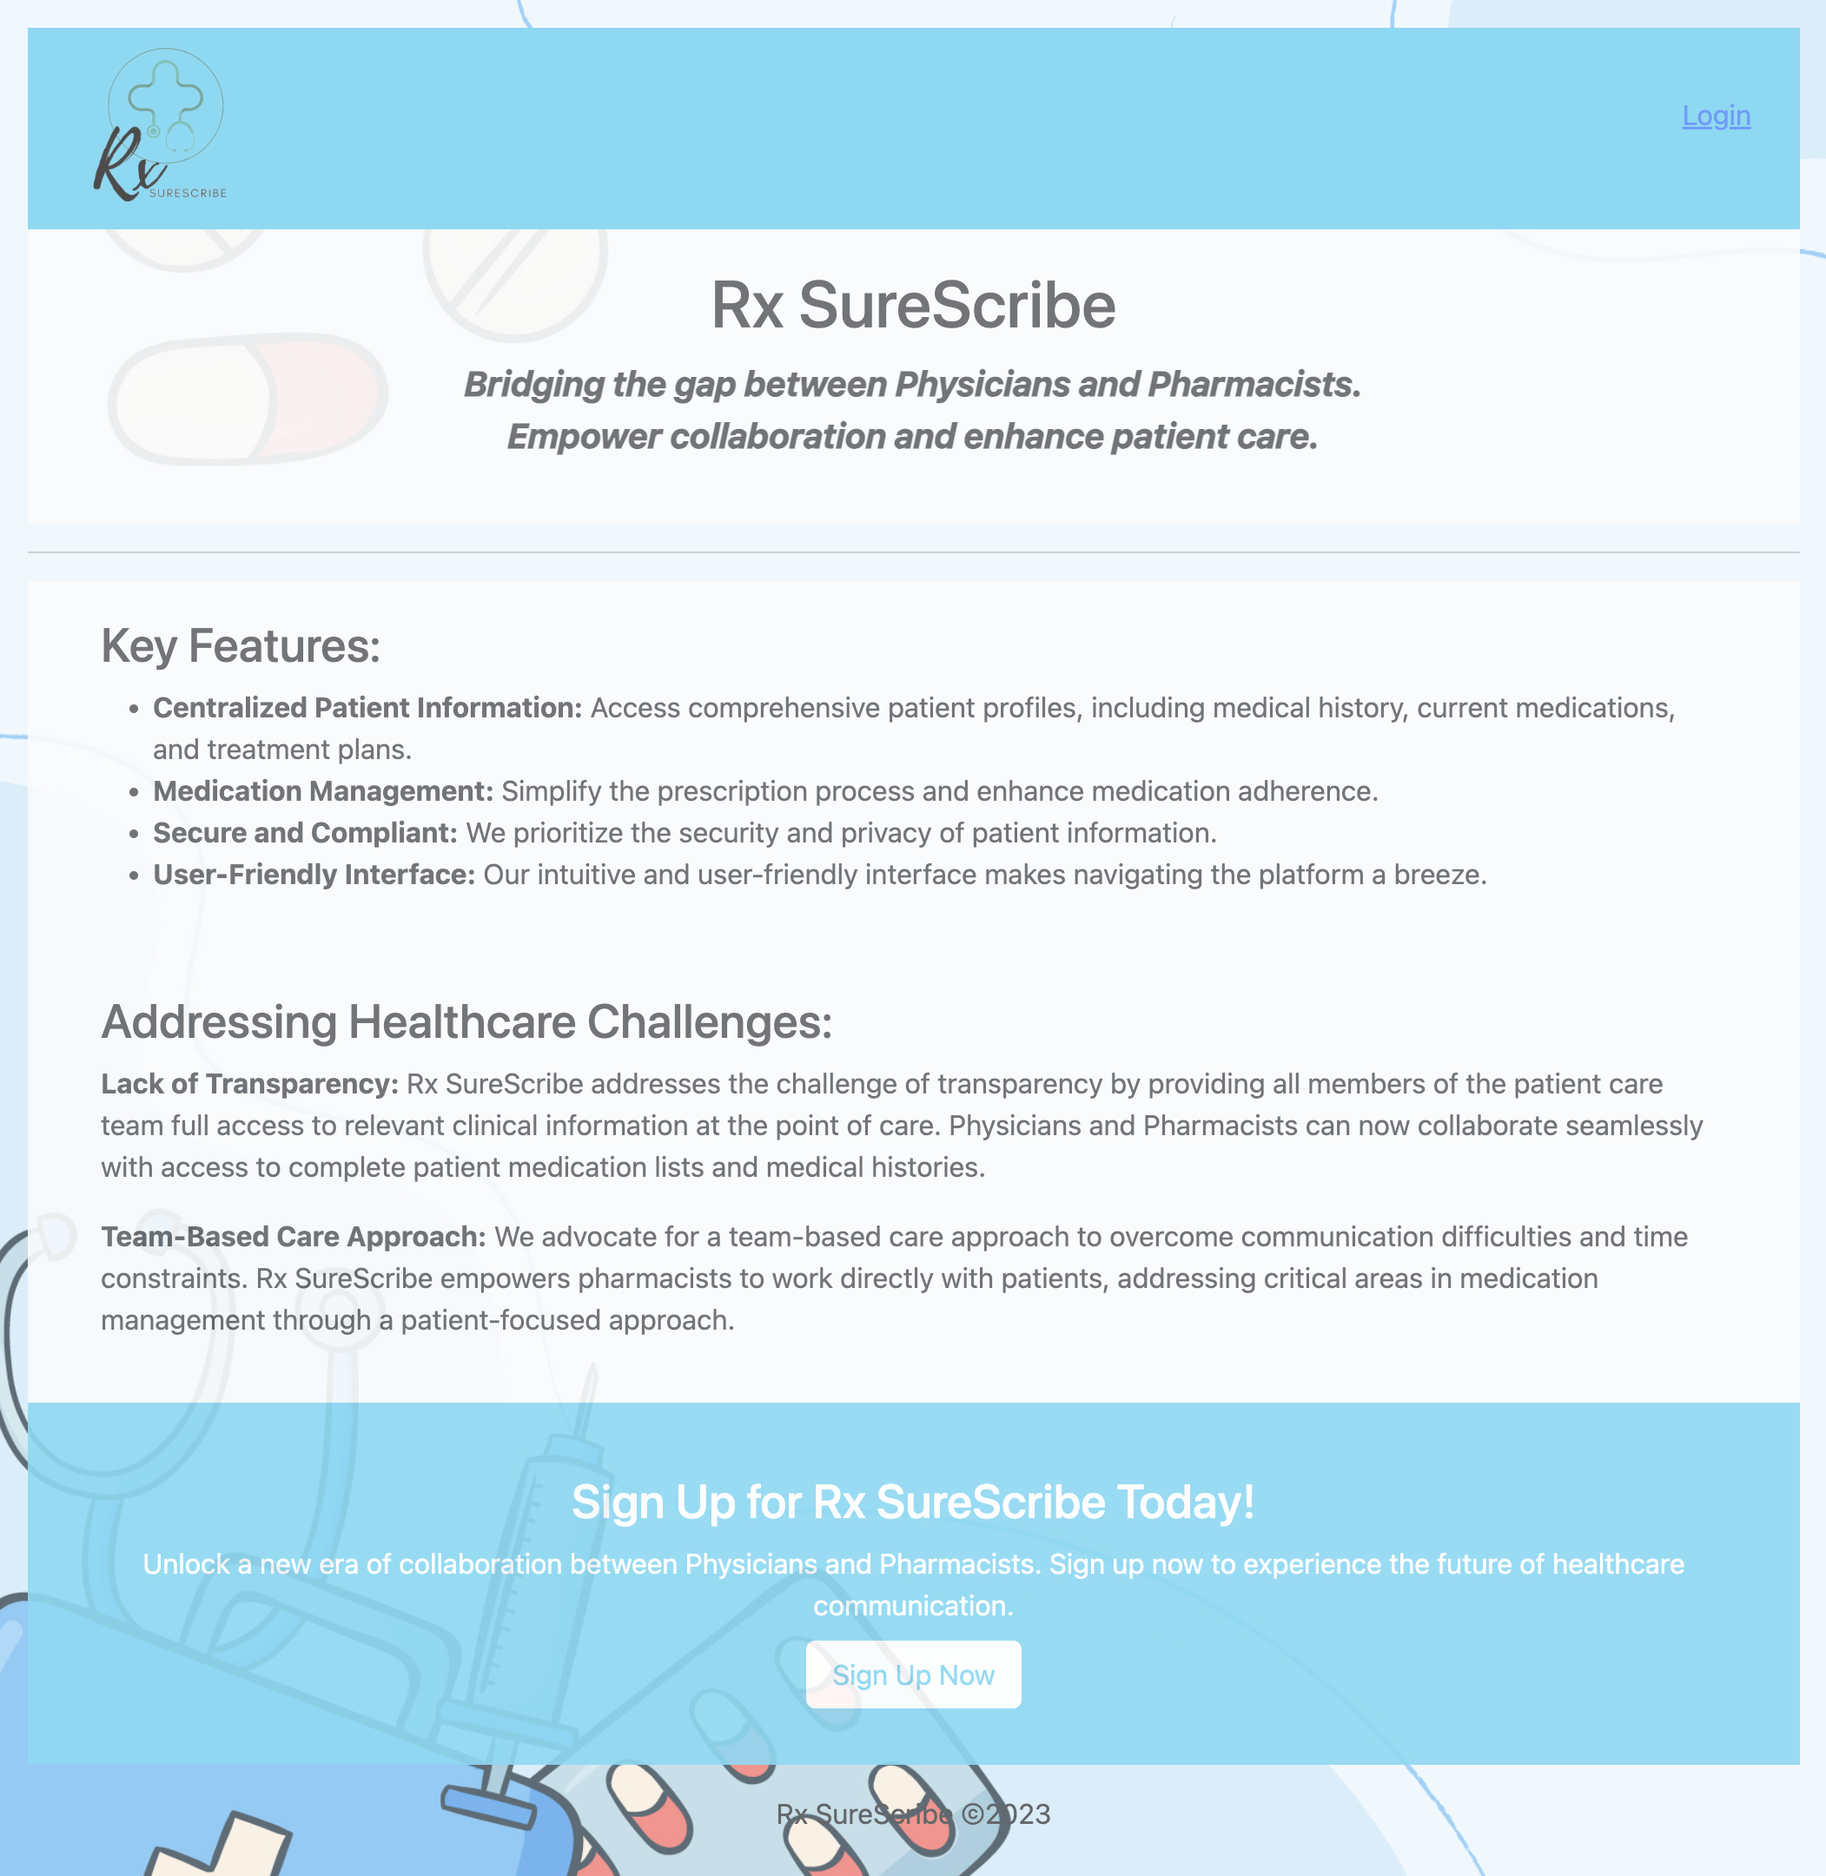
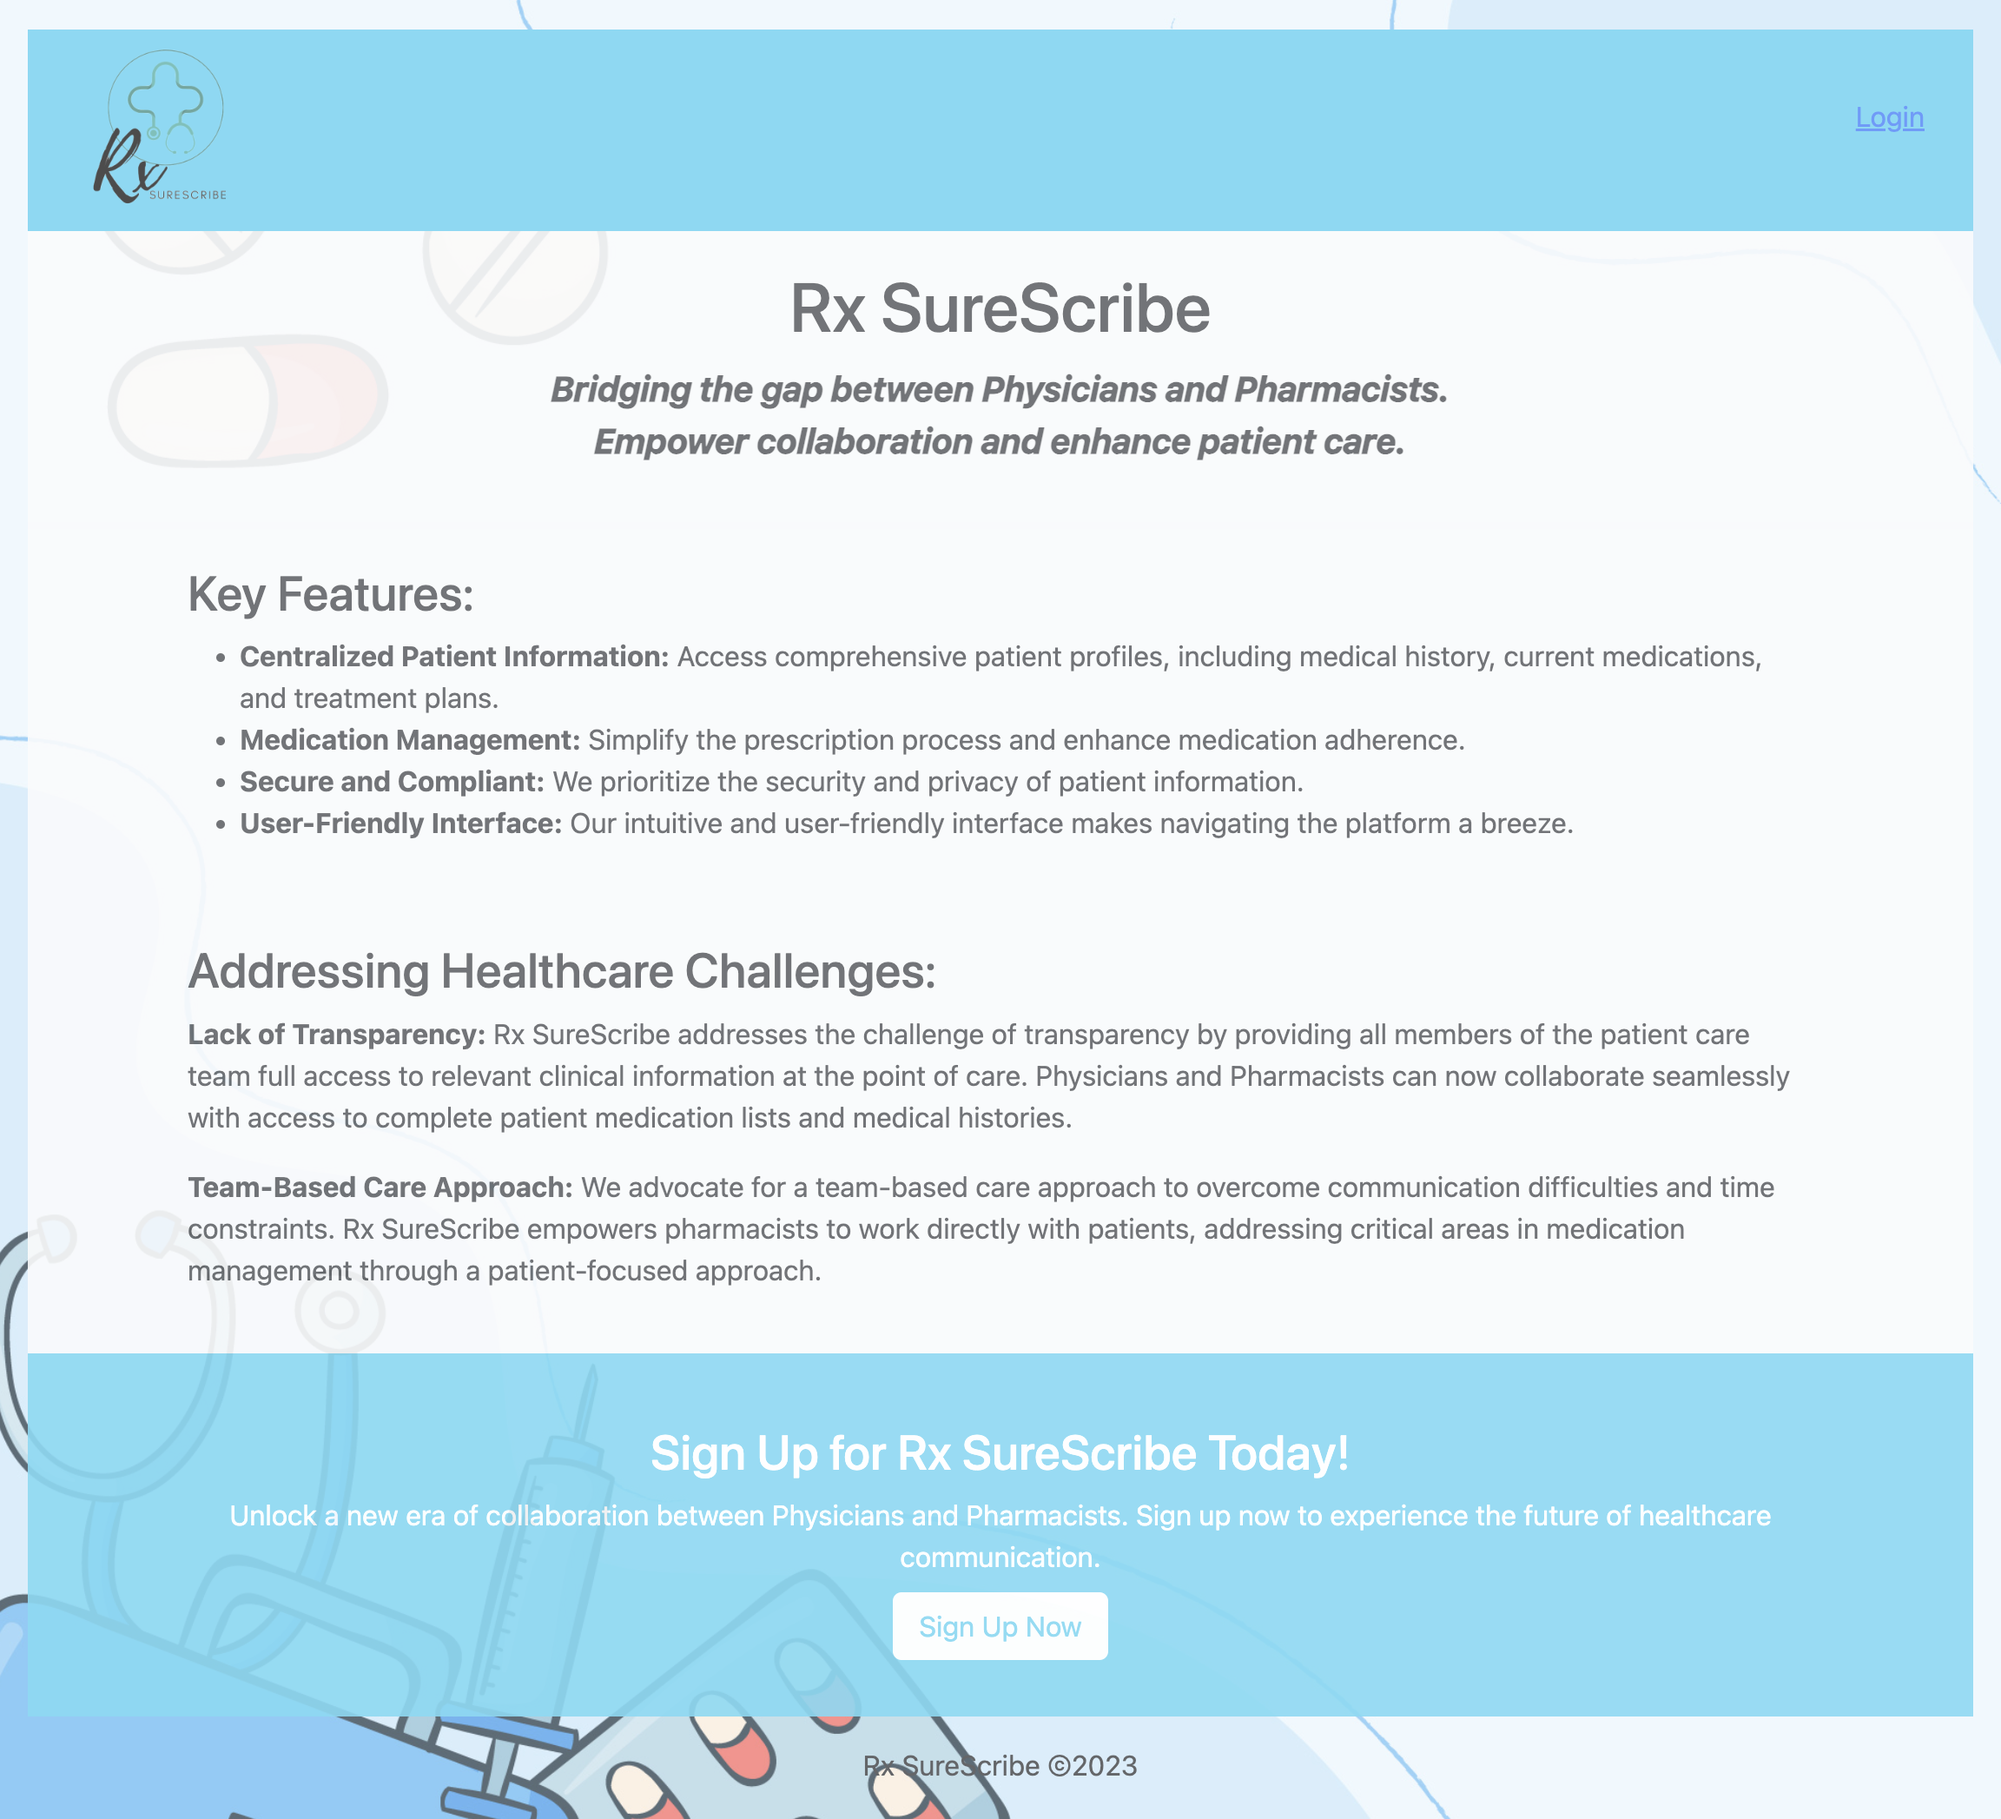
updated image links and image

diff --git a/client/src/components/NavBar/NavBar.jsx b/client/src/components/NavBar/NavBar.jsx
@@ -51,7 +51,7 @@ function NavBar() {
     <>
       <Navbar className="navbar-custom" collapseOnSelect expand="lg">
         <Container fluid className='px-4'>
-          <div><img src="./src/assets/RX-Logo.png" 
+          <div><img src="https://i.ibb.co/M6mb1Jr/RX-Logo.png" 
           alt="Rx SureScribe"
           style={{ width: 'auto', height: '100px' }}/></div>
           <Navbar.Toggle aria-controls="responsive-navbar-nav" />

diff --git a/client/src/App.jsx b/client/src/App.jsx
@@ -47,7 +47,7 @@ function App() {
 
   return (
     <div style={{
-      backgroundImage: `url(../src/assets/background.jpg)`,
+      backgroundImage: `url(https://i.ibb.co/nQ8CBQp/background.jpg)`,
       backgroundSize: 'cover',
       // backgroundPosition: 'center',
       backgroundRepeat: 'no-repeat',

diff --git a/client/src/Pages/Home/Home.jsx b/client/src/Pages/Home/Home.jsx
@@ -20,7 +20,6 @@ function Home() {
         Bridging the gap between Physicians and Pharmacists. <br />Empower collaboration and enhance patient care.
       </p>
         </div>
-<hr />
         <div className="home-container">
           <ul className="container">
           <h3>Key Features:</h3>
